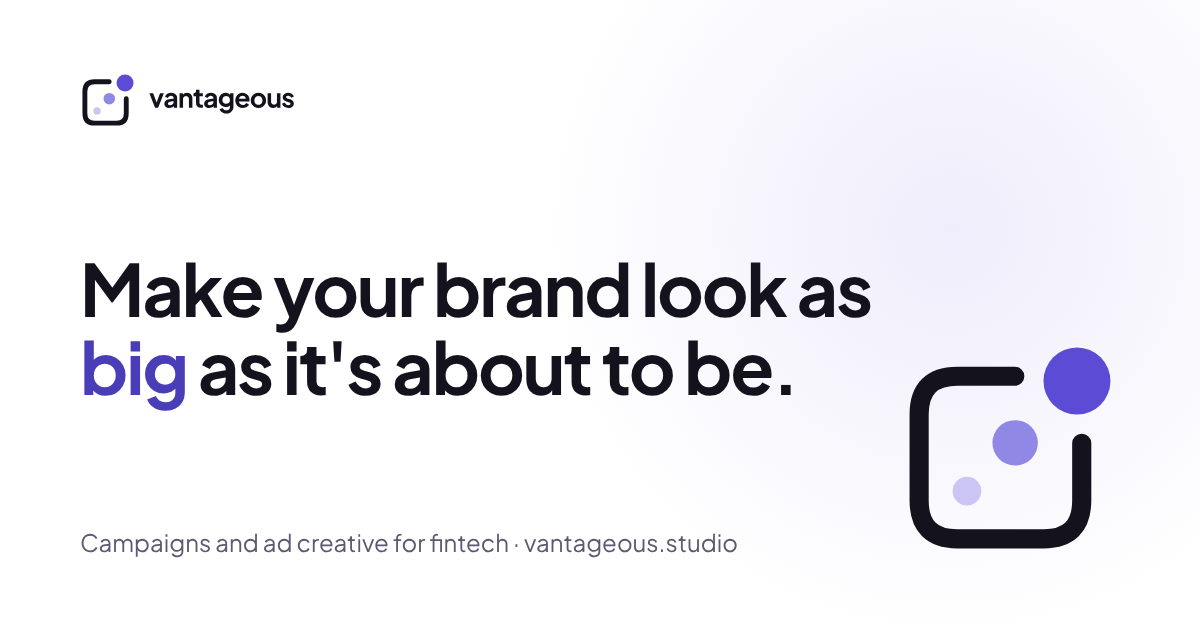
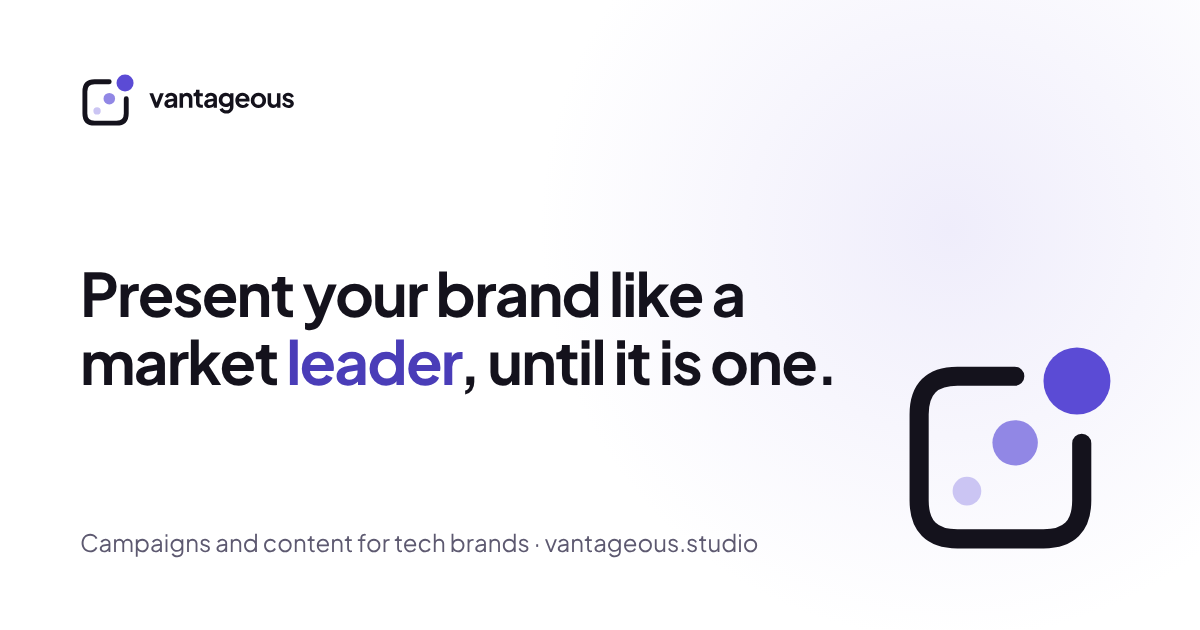
Broaden to tech startups, new line, more platforms
Claude-Session: https://claude.ai/code/session_01TY3oaJm5s2ur4tj8pWJPgV

Changed region(s): [[0.0617, 0.4222, 0.74, 0.6635], [0.2158, 0.8444, 0.6475, 0.9048]]

diff --git a/index.html b/index.html
@@ -3,13 +3,13 @@
 <head>
 <meta charset="utf-8">
 <meta name="viewport" content="width=device-width, initial-scale=1">
-<title>Vantageous | Campaigns and ad creative for fintech apps</title>
-<meta name="description" content="Vantageous is a creative and campaign studio for fintech and trading apps. Launch reels, campaigns, feature videos and Meta ads, built to pass compliance the first time.">
+<title>Vantageous | Campaigns and content for tech startups</title>
+<meta name="description" content="Vantageous is a creative and campaign studio for tech startups and growing tech companies. Campaigns, short-form video, feature walkthroughs and paid social, built to clear platform review the first time.">
 <link rel="canonical" href="https://vantageous.studio/">
 <meta property="og:type" content="website">
 <meta property="og:url" content="https://vantageous.studio/">
-<meta property="og:title" content="Vantageous: make your brand look as big as it's about to be">
-<meta property="og:description" content="Campaigns, ad creative and paid social for fintech and trading apps, built to pass compliance the first time.">
+<meta property="og:title" content="Vantageous: present your brand like a market leader, until it is one">
+<meta property="og:description" content="Campaigns, content and paid social for tech startups and growing tech companies.">
 <meta property="og:image" content="https://vantageous.studio/assets/og-image.png">
 <meta name="twitter:card" content="summary_large_image">
 <meta name="theme-color" content="#ffffff">
@@ -48,9 +48,9 @@
     <div class="glow" aria-hidden="true"></div>
     <div class="container hero-inner">
       <div class="hero-copy">
-        <p class="label">Creative and campaign studio for fintech</p>
-        <h1 class="display">Make your brand look as <span class="hl">big</span> as it's about to be.</h1>
-        <p class="lead">Campaigns, ad creative and paid social for fintech and trading apps, built to pass compliance the first time.</p>
+        <p class="label">Creative and campaign studio for tech brands</p>
+        <h1 class="display">Present your brand like a market <span class="hl">leader</span>, until it is one.</h1>
+        <p class="lead">Campaigns, content and paid social for tech startups and growing tech companies: apps, platforms, SaaS and websites.</p>
         <div class="actions">
           <a class="btn btn-primary" href="mailto:hello@vantageous.studio?subject=New%20project">Start a project</a>
           <a class="btn btn-ghost" href="#work">See the work</a>
@@ -71,7 +71,7 @@
     <div class="container">
       <div class="section-head">
         <p class="label">What we make</p>
-        <h2 class="h1">Everything your launch needs to look like a category leader's.</h2>
+        <h2 class="h1">The content you need to compete with the leaders in your market.</h2>
       </div>
       <div class="grid grid-4">
         <article class="card">
@@ -81,8 +81,8 @@
         </article>
         <article class="card">
           <svg class="icon" viewBox="0 0 24 24" aria-hidden="true"><rect x="7" y="2" width="10" height="20" rx="2"/><path d="m11 9 3 2-3 2z"/></svg>
-          <h3 class="h3">Ad reels and visuals</h3>
-          <p>Short-form vertical reels, cutdowns and static posts made for Instagram and TikTok feeds.</p>
+          <h3 class="h3">Short-form video and visuals</h3>
+          <p>Short-form video, cutdowns and static posts for Instagram, TikTok, YouTube Shorts, Facebook, X and LinkedIn.</p>
         </article>
         <article class="card">
           <svg class="icon" viewBox="0 0 24 24" aria-hidden="true"><circle cx="12" cy="12" r="9"/><path d="M12 8v4l3 2"/></svg>
@@ -91,8 +91,8 @@
         </article>
         <article class="card">
           <svg class="icon" viewBox="0 0 24 24" aria-hidden="true"><path d="M3 17l6-6 4 4 8-8"/><path d="M15 7h6v6"/></svg>
-          <h3 class="h3">Paid social on Meta</h3>
-          <p>We launch, test and optimise your ads inside your own ad account, and report on what works.</p>
+          <h3 class="h3">Paid social</h3>
+          <p>We launch, test and optimise your ads inside your own ad accounts, and report on what works.</p>
         </article>
       </div>
     </div>
@@ -101,15 +101,15 @@
   <section class="section band">
     <div class="container split">
       <div>
-        <p class="label">Why fintech</p>
+        <p class="label">Why Vantageous</p>
         <h2 class="h1">Creative that clears review, not just the feed.</h2>
-        <p class="lead">Financial ads live under stricter rules than almost anything else on social. We plan for them from the first draft, so your launch doesn't stall on a rejected ad.</p>
+        <p class="lead">Every platform has rules for what an ad can show and claim, and tech categories like finance, health and AI get extra scrutiny. We plan for them from the first draft, so your launch doesn't stall on a rejected ad.</p>
       </div>
       <ul class="checks">
-        <li><span class="check" aria-hidden="true"></span><div><strong>Risk lines built in.</strong> On screen and in the caption, sized to be read, not hidden.</div></li>
-        <li><span class="check" aria-hidden="true"></span><div><strong>No promised returns.</strong> We show the product working, never a profit figure it can't back up.</div></li>
+        <li><span class="check" aria-hidden="true"></span><div><strong>Claims you can stand behind.</strong> We show your product working, never a promise or number it can't back up.</div></li>
+        <li><span class="check" aria-hidden="true"></span><div><strong>Disclosures built in.</strong> Risk lines, terms and required notices sit on screen and in the caption, sized to be read.</div></li>
         <li><span class="check" aria-hidden="true"></span><div><strong>Platform policy first.</strong> Every concept is checked against the ad rules of the platforms and markets you target.</div></li>
-        <li><span class="check" aria-hidden="true"></span><div><strong>Your compliance team signs off.</strong> We build their review into the schedule, not around it.</div></li>
+        <li><span class="check" aria-hidden="true"></span><div><strong>Your team signs off.</strong> Legal, compliance or the founder: their review is built into the schedule, not squeezed in at the end.</div></li>
       </ul>
     </div>
   </section>
@@ -118,7 +118,7 @@
     <div class="container">
       <div class="section-head">
         <p class="label">Featured spec work</p>
-        <h2 class="h1">A 30-second launch reel for a copy-trading app.</h2>
+        <h2 class="h1">A 30-second launch reel for a perpetual futures trading app.</h2>
         <p class="lead">An app's nine launch posts, rebuilt as one fast story: the old way of trading snaps into the app, where you watch top traders, get pinged when they move, and copy them in a tap.</p>
       </div>
       <ol class="beats">
@@ -152,7 +152,7 @@
         </article>
         <article class="card pkg">
           <h3 class="h3">Growth retainer</h3>
-          <p>New content every month, plus Meta ad management in your own ad account, with a monthly report.</p>
+          <p>New content every month, plus ad management in your own ad accounts, with a monthly report.</p>
           <a class="link" href="mailto:hello@vantageous.studio?subject=Growth%20retainer">Ask about a retainer</a>
         </article>
       </div>
@@ -166,9 +166,9 @@
         <h2 class="h1">Three steps from brief to live.</h2>
       </div>
       <ol class="grid grid-3 steps">
-        <li class="step"><span class="num">1</span><h3 class="h3">Brief</h3><p>A short call about your product, your audience, your markets and the rules you advertise under.</p></li>
-        <li class="step"><span class="num">2</span><h3 class="h3">Build</h3><p>We send concepts first, then produce the one you pick. Your compliance team reviews before anything ships.</p></li>
-        <li class="step"><span class="num">3</span><h3 class="h3">Launch</h3><p>You post it, or we run it on Meta for you, test what works and report back.</p></li>
+        <li class="step"><span class="num">1</span><h3 class="h3">Brief</h3><p>A short call about your product, your audience, your market and the platforms you need to win on.</p></li>
+        <li class="step"><span class="num">2</span><h3 class="h3">Build</h3><p>We send concepts first, then produce the one you pick. Your team reviews before anything ships.</p></li>
+        <li class="step"><span class="num">3</span><h3 class="h3">Launch</h3><p>You post it, or we run it as ads for you, test what works and report back.</p></li>
       </ol>
     </div>
   </section>
@@ -186,7 +186,7 @@
 <footer class="footer">
   <div class="container footer-inner">
     <img src="/assets/vantageous-lockup-ink.svg" alt="Vantageous" width="124" height="32">
-    <p class="small">Creative and campaign studio for fintech. Toronto.</p>
+    <p class="small">Creative and campaign studio for tech brands. Toronto.</p>
     <ul class="footer-links">
       <li><a href="mailto:hello@vantageous.studio">hello@vantageous.studio</a></li>
       <li><a href="https://www.instagram.com/vantageous/">Instagram</a></li>

diff --git a/styles.css b/styles.css
@@ -48,6 +48,7 @@ a { color: var(--violet-text); }
 .container { width: 100%; max-width: 1160px; margin: 0 auto; padding: 0 var(--space-6); }
 
 /* type */
+.display, .h1 { text-wrap: balance; }
 .display { font-size: 64px; line-height: 68px; font-weight: 700; letter-spacing: -0.03em; margin: 0; }
 .h1 { font-size: 40px; line-height: 46px; font-weight: 700; letter-spacing: -0.02em; margin: 0; }
 .h3 { font-size: 20px; line-height: 28px; font-weight: 600; margin: 0; }
